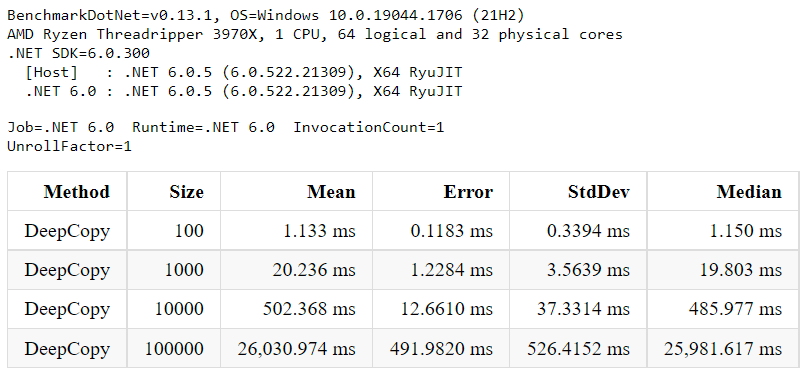
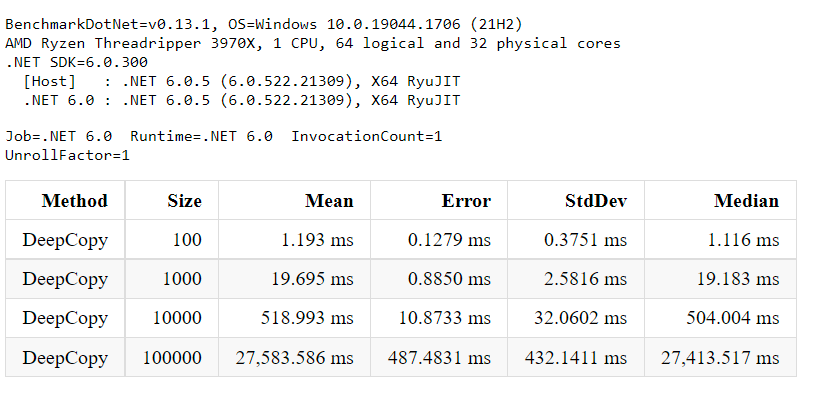
feat: using ArrayPool

diff --git a/ListSerializer/ListSerializer/ListSerializer.cs b/ListSerializer/ListSerializer/ListSerializer.cs
@@ -1,7 +1,9 @@
 using Common;
 using System;
+using System.Buffers;
 using System.Collections.Generic;
 using System.IO;
+using System.Linq;
 using System.Runtime.CompilerServices;
 using System.Text;
 using System.Threading.Tasks;
@@ -21,6 +23,7 @@ namespace ListSerializer
                 {
                     var dic = new Dictionary<ListNode, int>();
                     var globalLinkId = 0;
+                    ArrayPool<byte> arrayPool = ArrayPool<byte>.Shared;
 
                     //package [linkBytes 4byte][length 4byte][data][randomLink 4 byte or 0 if null]
                     s.Position = 0;
@@ -46,10 +49,18 @@ namespace ListSerializer
                         }
                         else
                         {
-                            byte[] bytes = Encoding.Unicode.GetBytes(current.Data);
-                            var lengthBytes = BitConverter.GetBytes(bytes.Length);
-                            s.Write(lengthBytes);
-                            s.Write(bytes);
+                            var byteCount = Encoding.Unicode.GetMaxByteCount(current.Data.Count());
+                            var bytes = arrayPool.Rent(byteCount);
+                            try
+                            {
+                                var size = Encoding.Unicode.GetBytes(current.Data, bytes);
+                                s.Write(BitConverter.GetBytes(size));
+                                s.Write(bytes, 0, size);
+                            }
+                            finally
+                            {
+                                arrayPool.Return(bytes);
+                            }
                         }
                         
                         if (current.Random == null)
@@ -96,15 +107,17 @@ namespace ListSerializer
             {
                 s.Position = 0;
                 ListNode head = null;
-                var bufferLink = new byte[4];
+                var bufferForInt32 = new byte[4];
                 var linkDictionary = new Dictionary<int, ListNode>();
                 var listNeedSetRandom = new List<(int linkId, int randomLinkId)>();
 
                 ListNode current = null;
                 ListNode previous = null;
-                while (s.Read(bufferLink, 0, bufferLink.Length) > 0)
+                ArrayPool<byte> arrayPool = ArrayPool<byte>.Shared;
+
+                while (s.Read(bufferForInt32, 0, bufferForInt32.Length) == bufferForInt32.Length)
                 {
-                    var linkId = BitConverter.ToInt32(bufferLink, 0);
+                    var linkId = BitConverter.ToInt32(bufferForInt32, 0);
 
                     current = new ListNode();
                     if (previous != null)
@@ -122,33 +135,37 @@ namespace ListSerializer
                         linkDictionary.Add(linkId, current);
                     }
 
-                    var bufferLength = new byte[4];
-                    if (s.Read(bufferLength, 0, bufferLength.Length) <= 0)
+                    if (s.Read(bufferForInt32, 0, bufferForInt32.Length) < bufferForInt32.Length)
                     {
                         throw new ArgumentException("not find length data in stream");
                     }
 
-                    var length = BitConverter.ToInt32(bufferLength);
+                    var length = BitConverter.ToInt32(bufferForInt32);
 
                     if (length != NullReference)
                     {
-                        var bufferData = new byte[length];
-                        if (s.Read(bufferData, 0, bufferData.Length) <= 0)
+                        var bufferData = arrayPool.Rent(length);
+                        try
                         {
-                            throw new ArgumentException();
-                        }
+                            if (s.Read(bufferData, 0, length) < length)
+                            {
+                                throw new ArgumentException("Unexpected end of stream, expect bytes represent string data");
+                            }
 
-                        var data = Encoding.Unicode.GetString(bufferData);
-                        current.Data = data;
+                            current.Data = Encoding.Unicode.GetString(new Span<byte>(bufferData, 0, length));
+                        }
+                        finally
+                        {
+                            arrayPool.Return(bufferData);
+                        }
                     }
 
-                    var bufferRandomLink = new byte[4];
-                    if (s.Read(bufferRandomLink, 0, bufferRandomLink.Length) <= 0)
+                    if (s.Read(bufferForInt32, 0, bufferForInt32.Length) < bufferForInt32.Length)
                     {
                         throw new ArgumentException();
                     }
 
-                    var randomLink = BitConverter.ToInt32(bufferRandomLink);
+                    var randomLink = BitConverter.ToInt32(bufferForInt32);
                     if (randomLink != NullReference)//means not null
                     {
                         if (linkDictionary.TryGetValue(randomLink, out var findNode))

diff --git a/ListSerializer/ListSerializer/ListSerializerV2.cs b/ListSerializer/ListSerializer/ListSerializerV2.cs
@@ -7,6 +7,7 @@ using System.Text;
 using System.Threading;
 using System.Threading.Tasks;
 using System.Linq;
+using System.Buffers;
 
 namespace ListSerializer
 {
@@ -22,6 +23,7 @@ namespace ListSerializer
             return Task.Factory.StartNew(() =>
                 {
                     var globalLinkId = 0;
+                    ArrayPool<byte> arrayPool = ArrayPool<byte>.Shared;
 
                     //package [linkBytes 4byte][length 4byte][data]
                     //All stream packages...link datas 'idLinkNodeHead'...'idLinkNodeTail'
@@ -47,10 +49,18 @@ namespace ListSerializer
                         }
                         else
                         {
-                            byte[] bytes = Encoding.Unicode.GetBytes(current.Data);
-                            var lengthBytes = BitConverter.GetBytes(bytes.Length);
-                            s.Write(lengthBytes);
-                            s.Write(bytes);
+                            var byteCount = Encoding.Unicode.GetMaxByteCount(current.Data.Count());
+                            var bytes = arrayPool.Rent(byteCount);
+                            try
+                            {
+                                var size = Encoding.Unicode.GetBytes(current.Data, bytes);
+                                s.Write(BitConverter.GetBytes(size));
+                                s.Write(bytes, 0, size);
+                            }
+                            finally
+                            {
+                                arrayPool.Return(bytes);
+                            }
                         }
                     }
                     while (current.Next != null);
@@ -220,14 +230,16 @@ namespace ListSerializer
             {
                 s.Position = 0;
                 ListNode head = null;
-                var bufferLink = new byte[4];
+                var bufferForInt32 = new byte[4];
                 var allUniqueNodes = new List<ListNode>();
 
                 ListNode current = null;
                 ListNode previous = null;
-                while (s.Read(bufferLink, 0, bufferLink.Length) > 0)
+                ArrayPool<byte> arrayPool = ArrayPool<byte>.Shared;
+
+                while (s.Read(bufferForInt32, 0, bufferForInt32.Length) == bufferForInt32.Length)
                 {
-                    var linkId = BitConverter.ToInt32(bufferLink, 0);
+                    var linkId = BitConverter.ToInt32(bufferForInt32, 0);
                     if(linkId == -1)//end unique nodes
                         break;
 
@@ -243,31 +255,37 @@ namespace ListSerializer
                         head = current;
                     }
 
-                    var bufferLength = new byte[4];
-                    if (s.Read(bufferLength, 0, bufferLength.Length) <= 0)
+                    if (s.Read(bufferForInt32, 0, bufferForInt32.Length) < bufferForInt32.Length)
                     {
                         throw new ArgumentException("Unexpected end of stream, expect four bytes");
                     }
 
-                    var length = BitConverter.ToInt32(bufferLength);
+                    var length = BitConverter.ToInt32(bufferForInt32);
                     if (length != -1)
                     {
-                        var bufferData = new byte[length];
-                        if (s.Read(bufferData, 0, bufferData.Length) <= 0)
+                        var bufferData = arrayPool.Rent(length);
+                        try
                         {
-                            throw new ArgumentException("Unexpected end of stream, expect bytes represent string data");
-                        }
+                            if (s.Read(bufferData, 0, length) < length)
+                            {
+                                throw new ArgumentException("Unexpected end of stream, expect bytes represent string data");
+                            }
 
-                        current.Data = Encoding.Unicode.GetString(bufferData);
+                            current.Data = Encoding.Unicode.GetString(new Span<byte>(bufferData, 0, length));
+                        }
+                        finally
+                        {
+                            arrayPool.Return(bufferData);
+                        }
                     }
 
                     previous = current;
                 }
 
                 int uniqueNodesIndex = 0;
-                while (s.Read(bufferLink, 0, bufferLink.Length) > 0)
+                while (s.Read(bufferForInt32, 0, bufferForInt32.Length) == bufferForInt32.Length)
                 {
-                    int linkIndex = BitConverter.ToInt32(bufferLink, 0);
+                    int linkIndex = BitConverter.ToInt32(bufferForInt32, 0);
                     if(linkIndex != -1)
                         allUniqueNodes[uniqueNodesIndex].Random = allUniqueNodes[linkIndex];
 

diff --git a/ListSerializer/ListSerializer/ListSerializerV3.cs b/ListSerializer/ListSerializer/ListSerializerV3.cs
@@ -7,6 +7,7 @@ using System.Text;
 using System.Threading;
 using System.Threading.Tasks;
 using System.Linq;
+using System.Buffers;
 
 namespace ListSerializer
 {
@@ -22,6 +23,7 @@ namespace ListSerializer
             return Task.Factory.StartNew(() =>
                 {
                     var globalLinkId = 0;
+                    ArrayPool<byte> arrayPool = ArrayPool<byte>.Shared;
 
                     //package [linkBytes 4byte][length 4byte][data]
                     //All stream packages...link datas 'idLinkNodeHead'...'idLinkNodeTail'
@@ -47,10 +49,18 @@ namespace ListSerializer
                         }
                         else
                         {
-                            byte[] bytes = Encoding.Unicode.GetBytes(current.Data);
-                            var lengthBytes = BitConverter.GetBytes(bytes.Length);
-                            s.Write(lengthBytes);
-                            s.Write(bytes);
+                            var byteCount = Encoding.Unicode.GetMaxByteCount(current.Data.Count());
+                            var bytes = arrayPool.Rent(byteCount);
+                            try
+                            {
+                                var size = Encoding.Unicode.GetBytes(current.Data, bytes);
+                                s.Write(BitConverter.GetBytes(size));
+                                s.Write(bytes, 0, size);
+                            }
+                            finally
+                            {
+                                arrayPool.Return(bytes);
+                            }
                         }
                     }
                     while (current.Next != null);
@@ -320,14 +330,16 @@ namespace ListSerializer
             {
                 s.Position = 0;
                 ListNode head = null;
-                var bufferLink = new byte[4];
+                var bufferForInt32 = new byte[4];
                 var allUniqueNodes = new List<ListNode>();
 
                 ListNode current = null;
                 ListNode previous = null;
-                while (s.Read(bufferLink, 0, bufferLink.Length) > 0)
+                ArrayPool<byte> arrayPool = ArrayPool<byte>.Shared;
+
+                while (s.Read(bufferForInt32, 0, bufferForInt32.Length) == bufferForInt32.Length)
                 {
-                    var linkId = BitConverter.ToInt32(bufferLink, 0);
+                    var linkId = BitConverter.ToInt32(bufferForInt32, 0);
                     if(linkId == -1)//end unique nodes
                         break;
 
@@ -343,31 +355,37 @@ namespace ListSerializer
                         head = current;
                     }
 
-                    var bufferLength = new byte[4];
-                    if (s.Read(bufferLength, 0, bufferLength.Length) <= 0)
+                    if (s.Read(bufferForInt32, 0, bufferForInt32.Length) < bufferForInt32.Length)
                     {
                         throw new ArgumentException("Unexpected end of stream, expect four bytes");
                     }
 
-                    var length = BitConverter.ToInt32(bufferLength);
+                    var length = BitConverter.ToInt32(bufferForInt32);
                     if (length != -1)
                     {
-                        var bufferData = new byte[length];
-                        if (s.Read(bufferData, 0, bufferData.Length) <= 0)
+                        var bufferData = arrayPool.Rent(length);
+                        try
                         {
-                            throw new ArgumentException("Unexpected end of stream, expect bytes represent string data");
-                        }
+                            if (s.Read(bufferData, 0, length) < length)
+                            {
+                                throw new ArgumentException("Unexpected end of stream, expect bytes represent string data");
+                            }
 
-                        current.Data = Encoding.Unicode.GetString(bufferData);
+                            current.Data = Encoding.Unicode.GetString(new Span<byte>(bufferData, 0, length));
+                        }
+                        finally
+                        {
+                            arrayPool.Return(bufferData);
+                        }
                     }
 
                     previous = current;
                 }
 
                 int uniqueNodesIndex = 0;
-                while (s.Read(bufferLink, 0, bufferLink.Length) > 0)
+                while (s.Read(bufferForInt32, 0, bufferForInt32.Length) == bufferForInt32.Length)
                 {
-                    int linkIndex = BitConverter.ToInt32(bufferLink, 0);
+                    int linkIndex = BitConverter.ToInt32(bufferForInt32, 0);
                     if(linkIndex != -1)
                         allUniqueNodes[uniqueNodesIndex].Random = allUniqueNodes[linkIndex];
 

diff --git a/ListSerializer/ListSerializerBenchmark/ListSerializerJob.cs b/ListSerializer/ListSerializerBenchmark/ListSerializerJob.cs
@@ -8,7 +8,7 @@ namespace ListSerializerBenchmark
     [SimpleJob(RuntimeMoniker.Net60)]
     public class ListSerializerJob
     {
-        [Params(100, 1000, 10000, 100000, 250000, 500000)]
+        [Params(100, 1000, 10000, 100000, 250000, 500000, 1000000)]
         public int Size;
 
         private ListNode _head;
